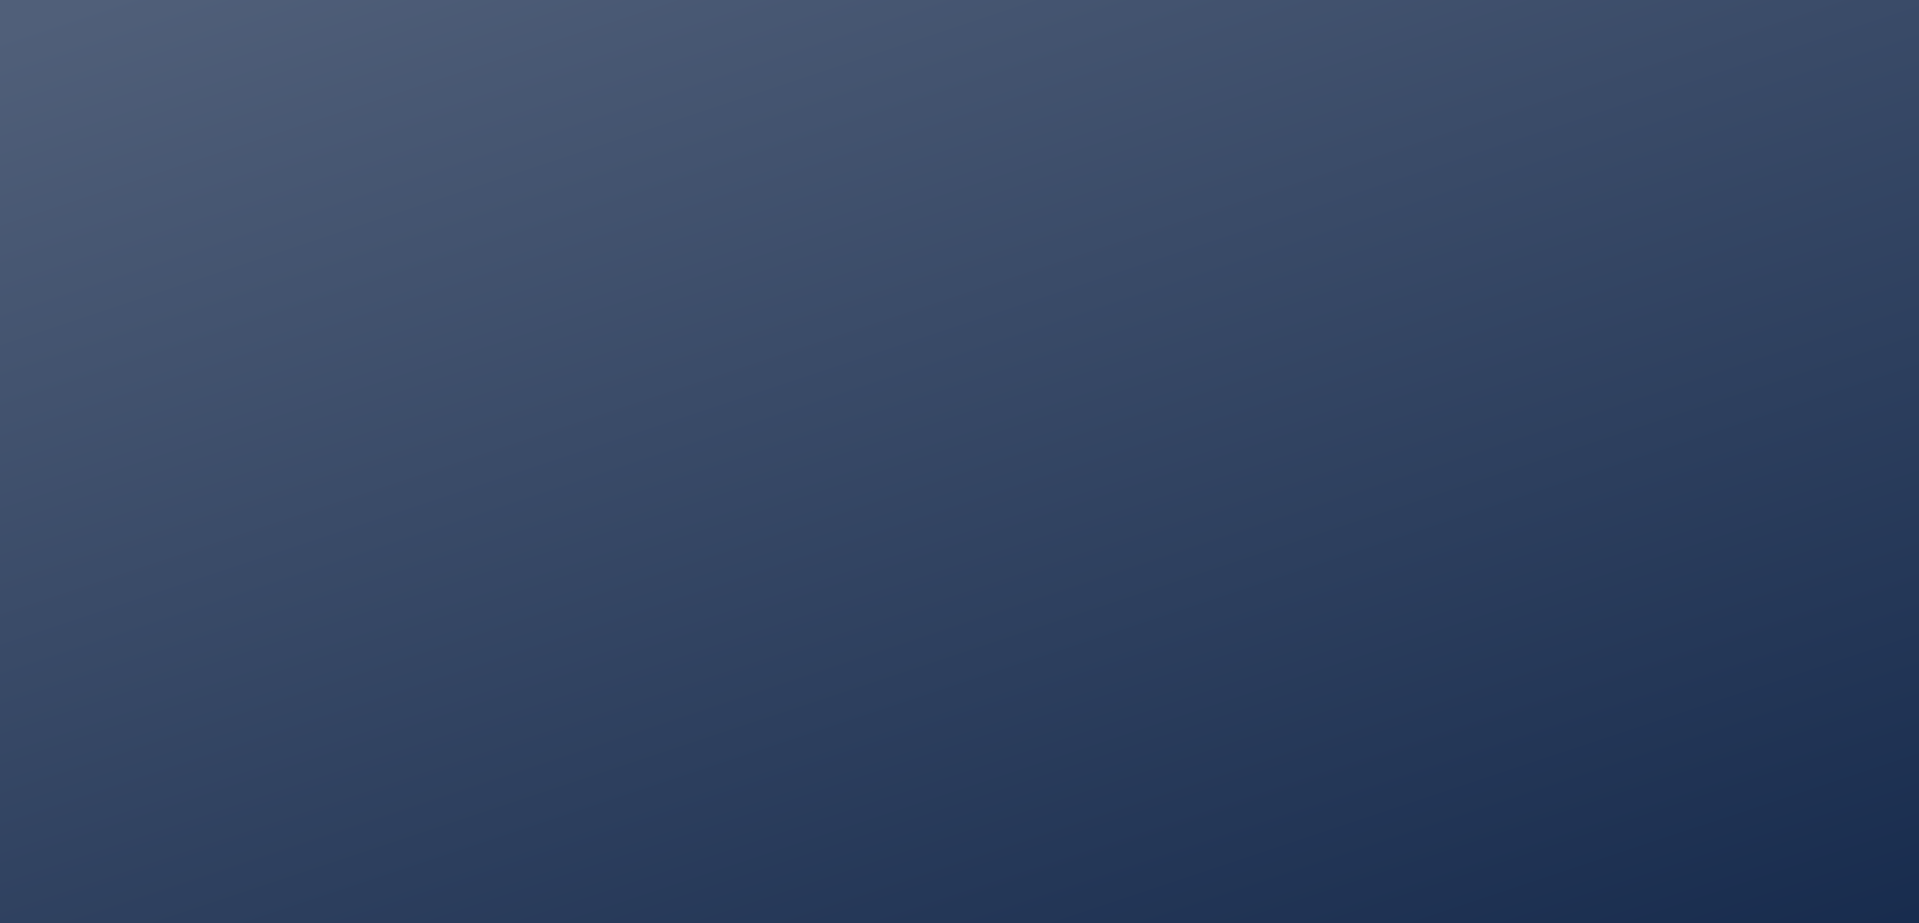
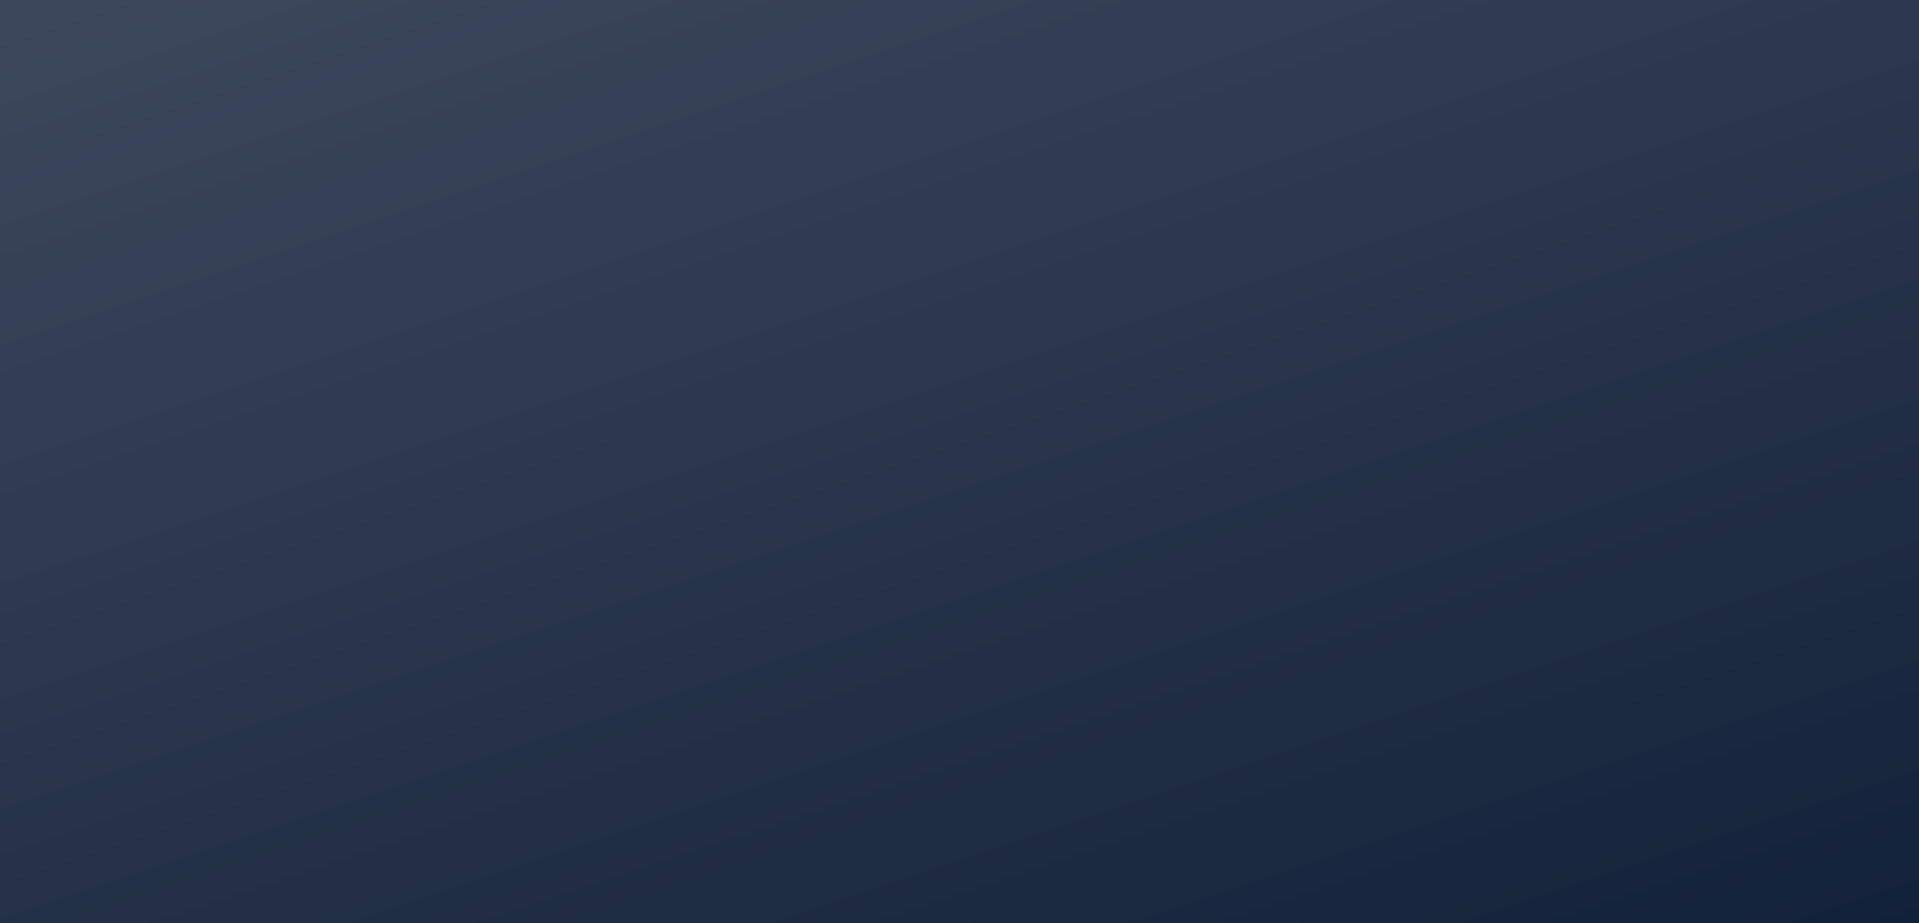
-new project creation page theme

diff --git a/src/main/resources/static/style/project.css b/src/main/resources/static/style/project.css
@@ -12,7 +12,10 @@ body {
     justify-content: center;
     align-items: center;
     min-height: 100vh;
-    background-color: #f0f2f5;
+    background-image: url("../img/workspaceBg.jpg");
+    background-position: center;
+    background-size: cover;
+    background-attachment: fixed;
 }
 
 input, textarea {
@@ -20,14 +23,18 @@ input, textarea {
     padding: 3px;
     font-size: 18px;
     outline: none;
-    border-style: solid;
-    border-width: 1px;
+    border-style: none;
     border-radius: 5px;
-    border-color: rgb(172, 172, 172);
+    background-color: rgba(191, 219, 248, 0.05);
+    color: hsl(214, 21%, 75%);
 }
 
 input {
     width: 250px;
+}
+
+input::placeholder {
+    color: hsl(214, 21%, 75%);
 }
 
 textarea {
@@ -40,6 +47,14 @@ select {
     height: 30px;
     font-size: 17px;
     transform: translateY(-2px);
+}
+
+select {
+    background-color: rgba(191, 219, 248, 0.15);
+    color: hsl(214, 21%, 75%);
+    border-style: none;
+    padding: 2px;
+    border-radius: 5px;
 }
 
 .field {
@@ -55,32 +70,34 @@ select {
     font-size: 40px;
     font-weight: 400;
     font-style: normal;
-    color: rgb(58, 135, 207);
+    color: #A1ADBB;
     margin-bottom: 5px;
     user-select: none;
 }
 
 #mainFrame {
     padding: 20px;
-    background-color: WHITE;
+    background-color: #3B444E;
     box-shadow: 0 2px 4px rgba(0, 0, 0, .1), 0 8px 16px rgba(0, 0, 0, .1);
     border-radius: 10px;
+    color: #A1ADBB;
 }
 
 #submit {
-    width: 400px;
     height: 40px;
     margin-top: 10px;
-    background-color: rgb(58, 135, 207);
-    color: WHITE;
+    width: 400px;
     font-weight: bold;
     border-style: none;
     border-radius: 10px;
+    background-color: rgba(125, 191, 255, 0.8);
+    color: WHITE;
+    filter: brightness(0.9);
 }
 
 #submit:hover {
     transition: 0.2s;
-    background-color: rgb(33, 128, 218);
+    filter: brightness(1);
     cursor: pointer;
 }
 

diff --git a/src/main/resources/static/style/style.css b/src/main/resources/static/style/style.css
@@ -9,8 +9,8 @@
 }
 
 body {
-    background-color: black;
     background-image: url("../img/workspaceBg.jpg");
+    background-color: rgba(19, 33, 56, 0.3);
     background-size: cover;
     background-position: center;
     background-attachment: fixed;
@@ -46,7 +46,7 @@ main li {
     padding: 3px;
     width: 240px;
     list-style: none;
-    background-color: #A6C5E229;
+    background-color: #22272b;
     display: flex;
     justify-content: center;
     align-items: center;
@@ -76,7 +76,7 @@ main .statusCard {
     width: 260px;
     padding-top: 10px;
     padding-bottom: 10px;
-    background-color: #0D0F10;
+    background-color: #101204;
     backdrop-filter: blur(5px);
     box-shadow: 0 2px 4px rgba(0, 0, 0, .1), 0 8px 16px rgba(0, 0, 0, .1);
     border-radius: 10px;
@@ -135,7 +135,7 @@ main select {
             border-radius: 10px;
             text-decoration: none;
             font-size: 18px;
-            color: #8C9BAB;
+            color: #A1ADBB;
             user-select: none;
             height: 54px;
         }
@@ -156,9 +156,13 @@ main select {
             font-size: 40px;
             font-weight: 400;
             font-style: normal;
-            color: #8C9BAB;
+            color: #A1ADBB;
             user-select: none;
             transform: translateY(-15px);
+        }
+
+        #logo:hover {
+            background-color: #1D2125;
         }
 
         nav #messages {

diff --git a/src/main/resources/static/script/nav.js b/src/main/resources/static/script/nav.js
@@ -37,7 +37,7 @@ document.getElementById("navBar").innerHTML = `
             border-radius: 10px;
             text-decoration: none;
             font-size: 18px;
-            color: #8C9BAB;
+            color: #A1ADBB;
             user-select: none;
             height: 54px;
         }
@@ -58,7 +58,7 @@ document.getElementById("navBar").innerHTML = `
             font-size: 40px;
             font-weight: 400;
             font-style: normal;
-            color: #8C9BAB;
+            color: #A1ADBB;
             user-select: none;
             transform: translateY(-15px);
         }

diff --git a/src/main/resources/static/style/login.css b/src/main/resources/static/style/login.css
@@ -26,13 +26,14 @@ h2 {
 
 input {
     padding: 10px;
-    border: none;
-    outline: none;
+    border-style: none;
     border-bottom: 1px solid rgb(85, 85, 85);
+    outline: none;
     width: 300px;
     font-size: 16px;
     color: hsl(214, 21%, 75%);
     margin-bottom: 20px;
+    border-color: hsl(214, 21%, 75%);
     background-color: rgb(0, 0, 0, 0);
 }
 

diff --git a/src/main/resources/static/style/registration.css b/src/main/resources/static/style/registration.css
@@ -26,12 +26,13 @@ h2 {
 
 input {
     padding: 10px;
-    border: none;
+    border-style: none;
     outline: none;
     border-bottom: 1px solid rgb(85, 85, 85);
     width: 300px;
     font-size: 16px;
     color: hsl(214, 21%, 75%);
+    border-color: hsl(214, 21%, 75%);
     margin-bottom: 20px;
     background-color: rgb(0, 0, 0, 0);
 }

diff --git a/src/main/resources/static/style/members.css b/src/main/resources/static/style/members.css
@@ -27,7 +27,7 @@ span {
     padding: 15px;
     width: 350px;
     height: 175px;
-    background-color: #0D0F10;
+    background-color: #101204;
     border-radius: 5px;
     box-shadow: 0 2px 4px rgba(0, 0, 0, .05), 0 8px 16px rgba(0, 0, 0, .05);
     font-family: "Ubuntu", sans-serif;
